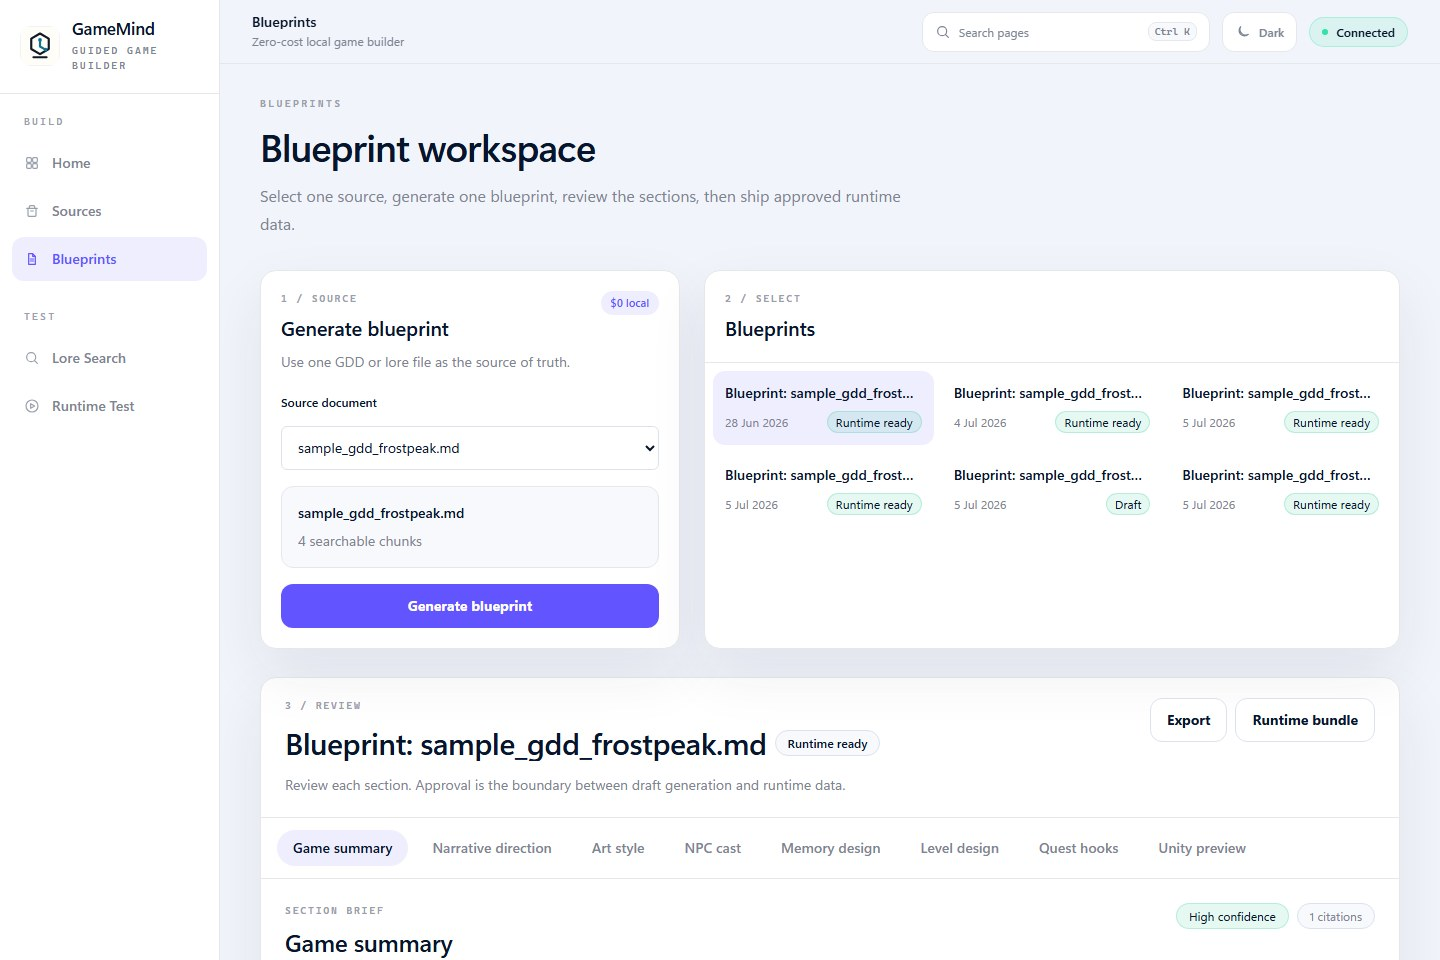
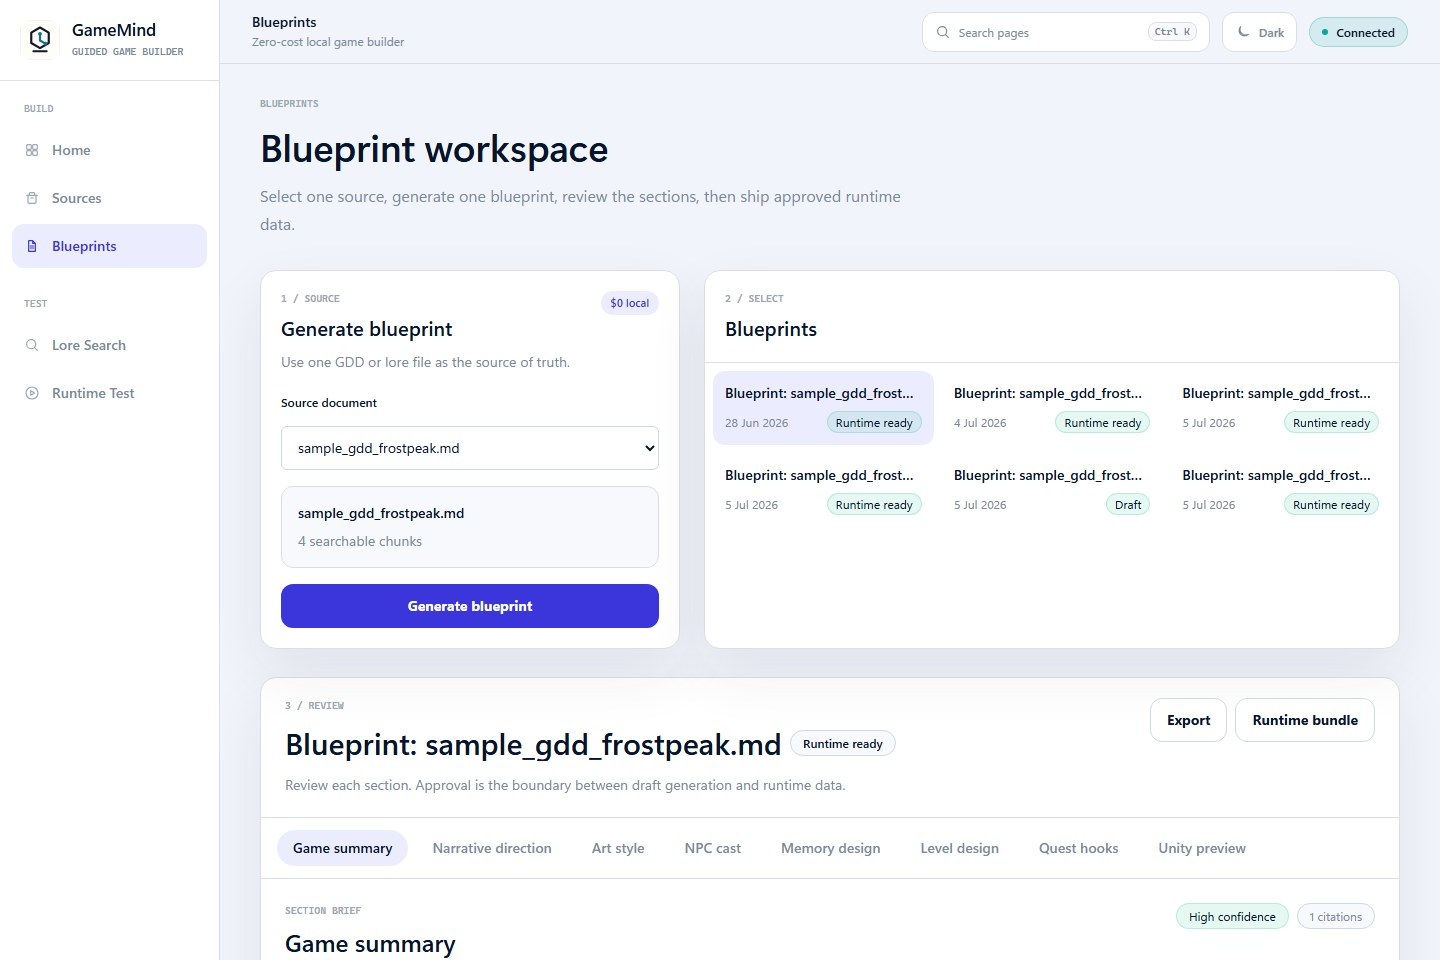
frontend: align dashboard tokens with figma reference

diff --git a/frontend/src/app/globals.css b/frontend/src/app/globals.css
@@ -7,19 +7,20 @@
   --card: #ffffff;
   --card-muted: #f8f9fd;
   --sidebar: #ffffff;
-  --border: #e4e8eb;
-  --border-strong: #dce2ec;
-  --text-secondary: #7c8592;
-  --text-tertiary: #98a0ac;
-  --accent: #6254ff;
-  --accent-hover: #524fdf;
-  --accent-soft: #eeeeff;
-  --pink: #fa5ba8;
-  --green: #2de3a6;
+  --border: #dddde8;
+  --border-strong: #cfd9e0;
+  --text-secondary: #788b9a;
+  --text-tertiary: #9aa8b2;
+  --text-disabled: #cfd9e0;
+  --accent: #3a36db;
+  --accent-hover: #312ec2;
+  --accent-soft: #ececff;
+  --pink: #ff69b4;
+  --green: #03a89e;
   --warning: #ffb84d;
   --shadow-soft: 0 24px 60px rgba(34, 42, 68, 0.08);
-  --font-serif-display: "Aptos Display", "Nunito Sans", "Manrope", "Segoe UI Variable Display", "Segoe UI", Inter, system-ui, sans-serif;
-  --font-inter: "Aptos", "Nunito Sans", "Inter", "Segoe UI Variable Text", "Segoe UI", system-ui, -apple-system, BlinkMacSystemFont, sans-serif;
+  --font-serif-display: "DM Sans", "Aptos Display", "Nunito Sans", "Manrope", "Segoe UI Variable Display", "Segoe UI", Inter, system-ui, sans-serif;
+  --font-inter: "DM Sans", "Aptos", "Nunito Sans", "Inter", "Segoe UI Variable Text", "Segoe UI", system-ui, -apple-system, BlinkMacSystemFont, sans-serif;
   --font-geist-mono: "Cascadia Code", "JetBrains Mono", "Geist Mono", SFMono-Regular, Consolas, "Liberation Mono", Menlo, monospace;
 }
 
@@ -30,15 +31,16 @@
   --card: #39394b;
   --card-muted: #2d2d3e;
   --sidebar: #39394b;
-  --border: rgba(255, 255, 255, 0.075);
-  --border-strong: rgba(255, 255, 255, 0.13);
-  --text-secondary: #c8c7cb;
+  --border: #454a56;
+  --border-strong: rgba(171, 173, 191, 0.34);
+  --text-secondary: #abadbf;
   --text-tertiary: #909098;
+  --text-disabled: #33315f;
   --accent: #6254ff;
-  --accent-hover: #7a70ff;
+  --accent-hover: #605cff;
   --accent-soft: #4a467d;
-  --pink: #ff68ad;
-  --green: #2de3a6;
+  --pink: #ff69b4;
+  --green: #2fe5a7;
   --warning: #ffc15a;
   --shadow-soft: 0 28px 70px rgba(0, 0, 0, 0.18);
 }
@@ -84,7 +86,7 @@ body {
     font-family: var(--font-geist-mono);
     font-size: 0.625rem;
     font-weight: 650;
-    letter-spacing: 0.24em;
+    letter-spacing: 0;
     text-transform: uppercase;
     color: var(--text-tertiary);
   }
@@ -92,7 +94,7 @@ body {
   .display-title {
     font-family: var(--font-serif-display);
     font-weight: 640;
-    letter-spacing: -0.018em;
+    letter-spacing: 0;
     text-wrap: balance;
     color: var(--foreground);
   }
@@ -112,7 +114,7 @@ body {
     font-family: var(--font-geist-mono);
     font-size: 0.625rem;
     font-weight: 650;
-    letter-spacing: 0.18em;
+    letter-spacing: 0;
     text-transform: uppercase;
   }
 

diff --git a/frontend/src/app/vertical-slice/page.tsx b/frontend/src/app/vertical-slice/page.tsx
@@ -455,7 +455,7 @@ export default function VerticalSliceSimulator() {
 
       <section className="panel overflow-hidden rounded-2xl">
         <div className="border-b border-[var(--border)] px-5 py-4">
-          <h2 className="text-lg font-semibold tracking-[-0.01em] text-[var(--foreground)]">Playtest setup</h2>
+          <h2 className="text-lg font-semibold tracking-normal text-[var(--foreground)]">Playtest setup</h2>
           <p className="mt-1 text-sm text-[var(--text-secondary)]">
             Choose the exact source and NPC this runtime session should use.
           </p>
@@ -503,7 +503,7 @@ export default function VerticalSliceSimulator() {
         <div className="panel flex min-h-[36rem] flex-col overflow-hidden rounded-2xl">
           <div className="flex items-center justify-between border-b border-[var(--border)] px-5 py-4">
             <div>
-              <h2 className="font-display text-xl font-semibold tracking-[-0.01em] text-[var(--foreground)]">Dialogue playtest</h2>
+              <h2 className="font-display text-xl font-semibold tracking-normal text-[var(--foreground)]">Dialogue playtest</h2>
               <p className="mt-1 text-xs text-[var(--text-secondary)]">
                 Ask the selected NPC about the world, quest, faction, or current objective.
               </p>
@@ -677,7 +677,7 @@ function ChatBubble({ message }: { message: ChatMessage }) {
             : "border-[var(--border)] bg-[var(--card)] text-[var(--foreground)]"
         }`}
       >
-        <div className="mb-2 flex items-center justify-between gap-4 text-[10px] font-semibold uppercase tracking-[0.14em] text-[var(--text-secondary)]">
+        <div className="mb-2 flex items-center justify-between gap-4 text-[10px] font-semibold uppercase tracking-normal text-[var(--text-secondary)]">
           <span>{isPlayer ? "Player" : "NPC"}</span>
           <span>{message.timestamp}</span>
         </div>
@@ -746,7 +746,7 @@ function QuestPanel({
   return (
     <section className="panel overflow-hidden rounded-2xl">
       <div className="border-b border-[var(--border)] px-5 py-4">
-        <h2 className="font-display text-xl font-semibold tracking-[-0.01em] text-[var(--foreground)]">Quest</h2>
+        <h2 className="font-display text-xl font-semibold tracking-normal text-[var(--foreground)]">Quest</h2>
         <p className="mt-1 text-xs text-[var(--text-secondary)]">Generate a contextual objective and register it for the player.</p>
       </div>
       <div className="p-5">
@@ -767,8 +767,8 @@ function QuestPanel({
         ) : (
           <div>
             <div className="flex items-start justify-between gap-3">
-              <h3 className="font-display text-xl font-semibold leading-7 tracking-[-0.01em] text-[var(--foreground)]">{quest.title}</h3>
-              <span className="rounded-full border border-[var(--border-strong)] px-2 py-1 text-[10px] font-semibold uppercase tracking-[0.12em] text-[var(--accent)]">
+              <h3 className="font-display text-xl font-semibold leading-7 tracking-normal text-[var(--foreground)]">{quest.title}</h3>
+              <span className="rounded-full border border-[var(--border-strong)] px-2 py-1 text-[10px] font-semibold uppercase tracking-normal text-[var(--accent)]">
                 {quest.difficulty}
               </span>
             </div>
@@ -827,7 +827,7 @@ function HintPanel({
   return (
     <section className="panel overflow-hidden rounded-2xl">
       <div className="border-b border-[var(--border)] px-5 py-4">
-        <h2 className="font-display text-xl font-semibold tracking-[-0.01em] text-[var(--foreground)]">Progressive hints</h2>
+        <h2 className="font-display text-xl font-semibold tracking-normal text-[var(--foreground)]">Progressive hints</h2>
         <p className="mt-1 text-xs text-[var(--text-secondary)]">Escalate from subtle guidance to direct help.</p>
       </div>
       <div className="p-5">
@@ -879,7 +879,7 @@ function HintPanel({
 function StatusPill({ ready, label }: { ready: boolean; label: string }) {
   return (
     <span
-      className={`rounded-full px-2.5 py-1 text-[10px] font-semibold uppercase tracking-[0.14em] ${
+      className={`rounded-full px-2.5 py-1 text-[10px] font-semibold uppercase tracking-normal ${
         ready ? "bg-emerald-500/10 text-emerald-800" : "bg-[var(--card-muted)] text-[var(--text-secondary)]"
       }`}
     >

diff --git a/frontend/src/app/blueprints/page.tsx b/frontend/src/app/blueprints/page.tsx
@@ -132,7 +132,7 @@ function SectionBrief({ section }: { section: ReviewSection }) {
       <div className="flex flex-col gap-4 lg:flex-row lg:items-start lg:justify-between">
         <div className="space-y-2">
           <p className="mono-label text-[var(--text-tertiary)]">Section brief</p>
-          <h3 className="text-2xl font-semibold tracking-[-0.01em] text-[var(--foreground)]">{section.title}</h3>
+          <h3 className="text-2xl font-semibold tracking-normal text-[var(--foreground)]">{section.title}</h3>
           <p className="max-w-2xl text-sm leading-6 text-[var(--text-secondary)]">{section.description}</p>
         </div>
         <div className="flex shrink-0 flex-wrap gap-2">
@@ -221,7 +221,7 @@ function ReportStat({ label, value, warn = false }: { label: string; value: numb
   return (
     <div className="rounded-lg border border-[var(--border)] bg-[var(--card)] px-2 py-2">
       <div className={`text-sm font-semibold ${warn ? "text-amber-800" : "text-[var(--foreground)]"}`}>{value}</div>
-      <div className="mt-1 text-[10px] font-semibold uppercase tracking-[0.12em] text-[var(--text-tertiary)]">{label}</div>
+      <div className="mt-1 text-[10px] font-semibold uppercase tracking-normal text-[var(--text-tertiary)]">{label}</div>
     </div>
   );
 }
@@ -510,7 +510,7 @@ export default function BlueprintsDashboard() {
             <div className="flex items-start justify-between gap-4">
               <div>
                 <p className="mono-label text-[var(--text-tertiary)]">1 / Source</p>
-                <h2 className="mt-2 text-xl font-semibold tracking-[-0.01em] text-[var(--foreground)]">Generate blueprint</h2>
+                <h2 className="mt-2 text-xl font-semibold tracking-normal text-[var(--foreground)]">Generate blueprint</h2>
               </div>
               <span className="rounded-full bg-[var(--accent-soft)] px-2.5 py-1 text-[11px] font-semibold text-[var(--accent)]">
                 $0 local
@@ -577,7 +577,7 @@ export default function BlueprintsDashboard() {
           <section className="panel min-w-0 overflow-hidden rounded-2xl">
             <div className="border-b border-[var(--border)] p-5">
               <p className="mono-label text-[var(--text-tertiary)]">2 / Select</p>
-              <h2 className="mt-2 text-xl font-semibold tracking-[-0.01em] text-[var(--foreground)]">Blueprints</h2>
+              <h2 className="mt-2 text-xl font-semibold tracking-normal text-[var(--foreground)]">Blueprints</h2>
             </div>
 
             {isLoading ? (
@@ -640,7 +640,7 @@ export default function BlueprintsDashboard() {
                     <div className="min-w-0 space-y-3">
                       <p className="mono-label text-[var(--text-tertiary)]">3 / Review</p>
                       <div className="flex flex-wrap items-center gap-2">
-                        <h2 className="truncate text-2xl font-semibold tracking-[-0.015em] text-[var(--foreground)] sm:text-3xl">
+                        <h2 className="truncate text-2xl font-semibold tracking-normal text-[var(--foreground)] sm:text-3xl">
                           {activeBlueprint.title}
                         </h2>
                         <span className="rounded-full border border-[var(--border-strong)] bg-[var(--card-muted)] px-3 py-1 text-xs font-medium text-[var(--foreground)]">

diff --git a/frontend/src/app/hints/page.tsx b/frontend/src/app/hints/page.tsx
@@ -288,7 +288,7 @@ export default function HintStudioPage() {
                         : "border-[var(--border-strong)] bg-[var(--card)] text-[var(--foreground)] hover:border-[var(--accent)] hover:bg-[var(--card-muted)]"
                     }`}
                   >
-                    <span className="text-xs font-semibold uppercase tracking-[0.16em]">Level {item.level}</span>
+                    <span className="text-xs font-semibold uppercase tracking-normal">Level {item.level}</span>
                     <span className="mt-3 block text-lg font-semibold">{item.title}</span>
                     <span className={`mt-2 block text-sm leading-6 ${hintLevel === item.level ? "text-white/85" : "text-[var(--text-secondary)]"}`}>
                       {item.description}
@@ -310,10 +310,10 @@ export default function HintStudioPage() {
               {generatedHint ? (
                 <div>
                   <div className="mb-4 flex items-center gap-2">
-                    <span className="rounded-full bg-[var(--accent)] px-2.5 py-1 text-[10px] font-semibold uppercase tracking-[0.12em] text-[var(--card)]">
+                    <span className="rounded-full bg-[var(--accent)] px-2.5 py-1 text-[10px] font-semibold uppercase tracking-normal text-[var(--card)]">
                       Level {generatedHint.hint_level}
                     </span>
-                    <span className="rounded-full border border-[var(--border-strong)] px-2.5 py-1 text-[10px] font-semibold uppercase tracking-[0.12em] text-[var(--text-secondary)]">
+                    <span className="rounded-full border border-[var(--border-strong)] px-2.5 py-1 text-[10px] font-semibold uppercase tracking-normal text-[var(--text-secondary)]">
                       {generatedHint.spoiler_level}
                     </span>
                   </div>
@@ -389,7 +389,7 @@ function ProgressDots({ currentLevel }: { currentLevel: number }) {
       {[0, 1, 2, 3].map((level) => (
         <div
           key={level}
-          className={`rounded-md border px-2 py-2 text-center text-[10px] font-semibold uppercase tracking-[0.12em] ${
+          className={`rounded-md border px-2 py-2 text-center text-[10px] font-semibold uppercase tracking-normal ${
             level === currentLevel
               ? "border-[var(--accent)] bg-[var(--accent)] text-[var(--card)]"
               : level < currentLevel

diff --git a/frontend/src/app/analytics/page.tsx b/frontend/src/app/analytics/page.tsx
@@ -130,7 +130,7 @@ export default function AnalyticsDashboard() {
               <h2 className="mt-3 font-display text-3xl font-semibold text-[var(--foreground)]">{isLoading ? "Checking" : healthLabel}</h2>
             </div>
             <span
-              className={`rounded-full px-2.5 py-1 text-[10px] font-semibold uppercase tracking-[0.14em] ${
+              className={`rounded-full px-2.5 py-1 text-[10px] font-semibold uppercase tracking-normal ${
                 issueCount === 0 ? "bg-emerald-500/10 text-emerald-800" : "bg-amber-500/10 text-amber-800"
               }`}
             >
@@ -383,11 +383,11 @@ function TraceRow({ log }: { log: TelemetryLog }) {
       </div>
       <div className="min-w-0">
         <div className="flex flex-wrap items-center gap-2">
-          <span className="rounded-full border border-[var(--border-strong)] px-2 py-1 text-[10px] font-semibold uppercase tracking-[0.12em] text-[var(--accent)]">
+          <span className="rounded-full border border-[var(--border-strong)] px-2 py-1 text-[10px] font-semibold uppercase tracking-normal text-[var(--accent)]">
             {humanizeAction(log.action_type)}
           </span>
           <span
-            className={`rounded-full px-2 py-1 text-[10px] font-semibold uppercase tracking-[0.12em] ${
+            className={`rounded-full px-2 py-1 text-[10px] font-semibold uppercase tracking-normal ${
               hasIssue ? "bg-amber-500/10 text-amber-800" : "bg-emerald-500/10 text-emerald-800"
             }`}
           >

diff --git a/frontend/src/app/knowledge/page.tsx b/frontend/src/app/knowledge/page.tsx
@@ -250,7 +250,7 @@ export default function KnowledgeBasePage() {
                 GDD
               </div>
               <div className="space-y-2">
-                <h2 className="font-display text-[1.65rem] font-semibold tracking-[-0.01em] text-[var(--foreground)]">
+                <h2 className="font-display text-[1.65rem] font-semibold tracking-normal text-[var(--foreground)]">
                   {uploading ? "Indexing source material" : "Drop your game document here"}
                 </h2>
                 <p className="max-w-2xl text-sm leading-6 text-[var(--text-secondary)]">
@@ -297,7 +297,7 @@ export default function KnowledgeBasePage() {
         <main className="space-y-4">
           <div className="flex flex-col gap-3 sm:flex-row sm:items-end sm:justify-between">
             <div>
-              <h2 className="font-display text-xl font-semibold tracking-[-0.01em] text-[var(--foreground)]">Uploaded sources</h2>
+              <h2 className="font-display text-xl font-semibold tracking-normal text-[var(--foreground)]">Uploaded sources</h2>
               <p className="mt-1 text-sm leading-6 text-[var(--text-secondary)]">
                 Repeated uploads are grouped by title. Use the latest copy for generation, or delete it if it was a test.
               </p>
@@ -387,7 +387,7 @@ export default function KnowledgeBasePage() {
 
         <aside className="panel overflow-hidden rounded-xl">
           <div className="border-b border-[var(--border)] p-5">
-            <h2 className="font-display text-xl font-semibold tracking-[-0.01em] text-[var(--foreground)]">Source preview</h2>
+            <h2 className="font-display text-xl font-semibold tracking-normal text-[var(--foreground)]">Source preview</h2>
             <p className="mt-2 text-sm leading-6 text-[var(--text-secondary)]">
               These are the source fragments GameMind can cite while generating plans and runtime behavior.
             </p>

diff --git a/frontend/src/app/npcs/page.tsx b/frontend/src/app/npcs/page.tsx
@@ -357,7 +357,7 @@ export default function NPCStudioPage() {
                 aria-pressed={showReviewItems}
               >
                 <span>{showReviewItems ? "Hide review items" : "Show review items"}</span>
-                <span className="rounded-full bg-[var(--accent-soft)] px-2 py-1 text-[10px] uppercase tracking-[0.12em] text-[var(--accent)]">
+                <span className="rounded-full bg-[var(--accent-soft)] px-2 py-1 text-[10px] uppercase tracking-normal text-[var(--accent)]">
                   {reviewNpcs.length}
                 </span>
               </button>
@@ -407,7 +407,7 @@ export default function NPCStudioPage() {
                           <h3 className="truncate text-sm font-semibold text-[var(--foreground)]">{npc.name}</h3>
                           <p className="mt-1 truncate text-xs text-[var(--text-secondary)]">{npc.title || npc.slug}</p>
                         </div>
-                        <span className="rounded-full border border-[var(--border-strong)] px-2 py-1 text-[10px] font-semibold uppercase tracking-[0.12em] text-[var(--accent)]">
+                        <span className="rounded-full border border-[var(--border-strong)] px-2 py-1 text-[10px] font-semibold uppercase tracking-normal text-[var(--accent)]">
                           {needsReview ? "Review" : npc.faction_alignment || "Solo"}
                         </span>
                       </div>
@@ -638,7 +638,7 @@ function ReadinessItem({ label, ready }: { label: string; ready: boolean }) {
     <div className="flex items-center justify-between gap-4 rounded-md border border-[var(--border)] bg-[var(--card)] px-3 py-2">
       <span className="text-sm text-[var(--text-secondary)]">{label}</span>
       <span
-        className={`rounded-full px-2 py-1 text-[10px] font-semibold uppercase tracking-[0.12em] ${
+        className={`rounded-full px-2 py-1 text-[10px] font-semibold uppercase tracking-normal ${
           ready ? "bg-emerald-500/10 text-emerald-800" : "bg-[#e5edf3] text-[var(--text-secondary)]"
         }`}
       >

diff --git a/frontend/src/app/page.tsx b/frontend/src/app/page.tsx
@@ -219,7 +219,7 @@ export default function WorkspaceOverview() {
           </div>
           <div className="p-5">
             <p className="page-kicker">Current step</p>
-            <h2 className="mt-3 text-xl font-semibold tracking-[-0.01em] text-[var(--foreground)]">
+            <h2 className="mt-3 text-xl font-semibold tracking-normal text-[var(--foreground)]">
               {nextAction.label}
             </h2>
             <p className="mt-2 text-sm leading-6 text-[var(--text-secondary)]">{nextAction.description}</p>
@@ -271,7 +271,7 @@ export default function WorkspaceOverview() {
                   <p className="mono-label mt-0 text-[var(--text-tertiary)] sm:mt-3">{step.eyebrow.split(" / ")[1]}</p>
                 </div>
                 <div>
-                  <h3 className="text-lg font-semibold tracking-[-0.01em] text-[var(--foreground)]">{step.title}</h3>
+                  <h3 className="text-lg font-semibold tracking-normal text-[var(--foreground)]">{step.title}</h3>
                   <p className="mt-2 max-w-2xl text-sm leading-6 text-[var(--text-secondary)]">{step.body}</p>
                 </div>
                 <div className="flex items-center">
@@ -286,7 +286,7 @@ export default function WorkspaceOverview() {
 
         <aside className="space-y-5">
           <section className="panel rounded-3xl p-5">
-            <h2 className="font-display text-[1.45rem] font-semibold tracking-[-0.01em] text-[var(--foreground)]">Project snapshot</h2>
+            <h2 className="font-display text-[1.45rem] font-semibold tracking-normal text-[var(--foreground)]">Project snapshot</h2>
             <div className="mt-5 divide-y divide-[var(--border)]">
               <FactRow label="Documents" value={isLoading ? "--" : String(documents.length)} />
               <FactRow label="Chunks" value={isLoading ? "--" : String(totalChunks)} />

diff --git a/frontend/src/app/query/page.tsx b/frontend/src/app/query/page.tsx
@@ -276,7 +276,7 @@ export default function QueryStudioPage() {
 
         <aside className="space-y-5">
           <section className="panel rounded-xl p-5">
-            <h2 className="font-display text-xl font-semibold tracking-[-0.01em] text-[var(--foreground)]">Why this matters</h2>
+            <h2 className="font-display text-xl font-semibold tracking-normal text-[var(--foreground)]">Why this matters</h2>
             <div className="mt-4 space-y-4 text-sm leading-6 text-[var(--text-secondary)]">
               <p>
                 Lore Search is the trust check. If citations are weak, the generated blueprint will also be weak.
@@ -296,7 +296,7 @@ export default function QueryStudioPage() {
 
           {groupedSources.length > 0 && (
             <section className="panel rounded-xl p-5">
-            <h2 className="font-display text-xl font-semibold tracking-[-0.01em] text-[var(--foreground)]">Sources used</h2>
+            <h2 className="font-display text-xl font-semibold tracking-normal text-[var(--foreground)]">Sources used</h2>
               <div className="mt-4 space-y-3">
                 {groupedSources.map((source) => (
                   <div key={source.title} className="flex items-center justify-between gap-3 text-sm">
@@ -311,7 +311,7 @@ export default function QueryStudioPage() {
           )}
 
           <section className="panel rounded-xl p-5">
-            <h2 className="font-display text-xl font-semibold tracking-[-0.01em] text-[var(--foreground)]">Recent questions</h2>
+            <h2 className="font-display text-xl font-semibold tracking-normal text-[var(--foreground)]">Recent questions</h2>
             <div className="mt-4 space-y-2">
               {history.map((item) => (
                 <button

diff --git a/frontend/src/components/DashboardLayout.tsx b/frontend/src/components/DashboardLayout.tsx
@@ -381,8 +381,8 @@ function Brand() {
         className="h-10 w-10 rounded-[0.7rem]"
       />
         <div>
-          <p className="text-[1.05rem] font-semibold leading-none tracking-[-0.01em] text-[var(--foreground)] transition">GameMind</p>
-          <p className="mt-1.5 font-mono text-[10px] font-semibold uppercase tracking-[0.2em] text-[var(--text-secondary)]">
+          <p className="text-[1.05rem] font-semibold leading-none tracking-normal text-[var(--foreground)] transition">GameMind</p>
+          <p className="mt-1.5 font-mono text-[10px] font-semibold uppercase tracking-normal text-[var(--text-secondary)]">
             Guided game builder
           </p>
         </div>
@@ -395,7 +395,7 @@ function Navigation({ pathname, onNavigate }: { pathname: string; onNavigate: ()
     <nav className="flex-1 overflow-y-auto px-3 py-5">
       {sections.map((section) => (
         <div key={section} className="mb-7 last:mb-0">
-          <p className="px-3 font-mono text-[10px] font-semibold uppercase tracking-[0.22em] text-[var(--text-tertiary)]">{section}</p>
+          <p className="px-3 font-mono text-[10px] font-semibold uppercase tracking-normal text-[var(--text-tertiary)]">{section}</p>
           <div className="mt-3 space-y-1">
             {navigationItems
               .filter((item) => item.section === section)